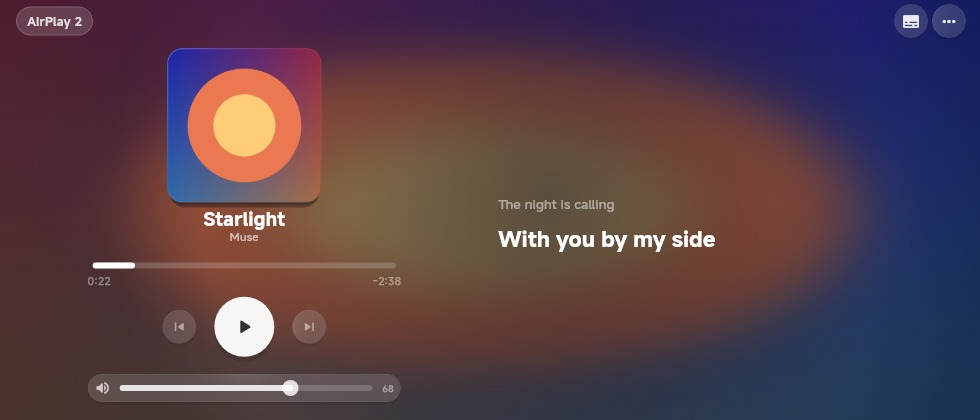
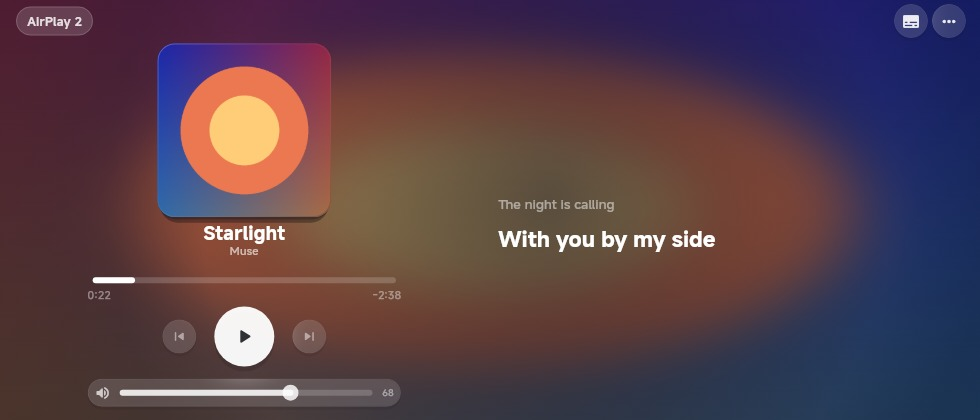
Budget compact lyrics panels from available height and document takeover checks

Changed region(s): [[0.0918, 0.0929, 0.4286, 0.7119], [0.0918, 0.7119, 0.4286, 0.9905], [0.2143, 0.1548, 0.2755, 0.1857]]

diff --git a/flutter/lib/ui/player_view.dart b/flutter/lib/ui/player_view.dart
@@ -802,13 +802,16 @@ class _PlayerViewState extends State<PlayerView> {
       final panelWidth = constraints.maxWidth;
       final panelHeight = constraints.maxHeight;
       final compact = panelHeight < 560 || panelWidth < 300;
-      final dense = compact && panelHeight < 330;
+      final room = ((panelHeight - 380) / 120).clamp(0.0, 1.0);
       final padding = compact ? 8.0 : 16.0;
       final playback = widget.state.playback;
       final (title, artist) = _displayMetadata(playback);
       final artistLine = _cleanArtist(artist);
       return Padding(
-        padding: EdgeInsets.all(padding),
+        padding: EdgeInsets.symmetric(
+          horizontal: padding,
+          vertical: compact ? 2 + 6 * room : padding,
+        ),
         child: Column(
           key: const ValueKey('player-controls-column'),
           mainAxisAlignment: MainAxisAlignment.center,
@@ -818,7 +821,7 @@ class _PlayerViewState extends State<PlayerView> {
                 builder: (context, space) {
                   final size = math.min(
                     space.maxHeight,
-                    math.min(space.maxWidth, panelHeight * .44),
+                    math.min(space.maxWidth, panelHeight * (.47 - .03 * room)),
                   );
                   return _breathingArtwork(
                     size: size,
@@ -857,7 +860,7 @@ class _PlayerViewState extends State<PlayerView> {
               width: (panelWidth * .68).clamp(210.0, 560.0),
               child: _playbackControls(
                 compact: compact,
-                gap: dense ? 4 : (compact ? 7 : 12),
+                gap: compact ? 2 + 5 * room : 12,
                 fillVolumeWidth: true,
               ),
             ),

diff --git a/flutter/test/lyrics_player_test.dart b/flutter/test/lyrics_player_test.dart
@@ -241,12 +241,13 @@ void main() {
           reason: '$size',
         );
         expect(column[i].right, lessThan(lyrics.left), reason: '$size');
-        if (i > 0)
+        if (i > 0) {
           expect(
             column[i].top,
             greaterThanOrEqualTo(column[i - 1].bottom - .1),
             reason: '$size',
           );
+        }
       }
       expect(tester.takeException(), isNull);
     }

diff --git a/fusionplay-ui-audit-codex/REVIEW.md b/fusionplay-ui-audit-codex/REVIEW.md
@@ -49,3 +49,9 @@ ffmpeg -y -framerate 58.8235 -i /tmp/fusionplay-preview/menu-frames/frame-%02d.p
 [AirPlay 2](screenshots/player/metadata-airplay.jpg) · [小米妙播](screenshots/player/metadata-xiaomi_miplay.jpg) · [DLNA](screenshots/player/metadata-dlna.jpg)
 
 复现截图可在 flutter 目录执行 `FUSIONPLAY_METADATA_PREVIEW_DIR=/tmp/receiver-preview flutter test test/receiver_metadata_ui_test.dart`。
+
+### 同列歌词布局与 Android 多来源接管复查
+
+有歌词横屏移除了将左栏再次拆成两列的分支。布局回归测量封面、曲名、歌手、进度、播放和音量的中心与顺序，覆盖 620×320 至 1920×1080 共 11 个尺寸。在 900×400 和 980×420，下方控件占用实际空间后，封面实测分别为 156.8 和 173.9 逻辑像素。[1280×597 Flutter 渲染](cover-study/lyrics.png)
+
+Android AirPlay 音频正在播放时，妙播的曲目数据进入该来源的缓存。妙播报告播放状态 2 后可以触发接管。Rust 将旧会话置为暂停并清空音频缓冲，尝试远程暂停，保留发送端连接。Android 过去在 JNI 入队成功后即可请求恢复妙播输出。本次增加带请求 ID 的核心确认，并过滤后台来源对设备媒体音量的写入。仲裁测试覆盖匹配回执、其他请求的回执、失败与超时。实际两台发送器的交叠时长和切换延迟仍缺少设备测量。反向切换的 1.5 秒旧播放状态抑制窗口属于兼容性折中。
